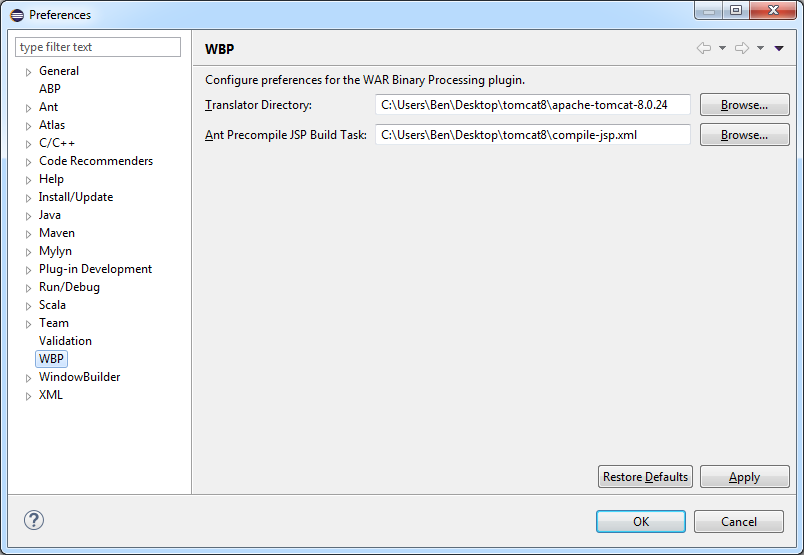
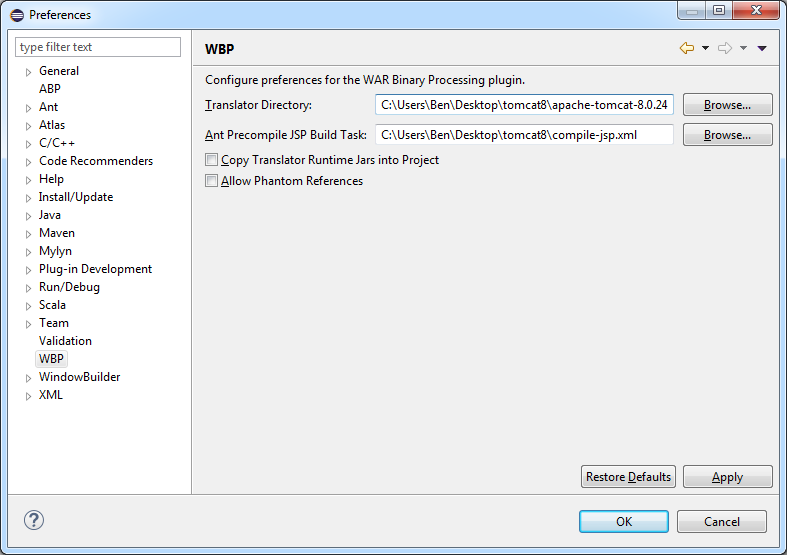
updating tutorial with preference options and added copyright

diff --git a/tutorials.html b/tutorials.html
@@ -94,6 +94,7 @@
         <p>Before processing a WAR binary, you should remember to change your translator preferences by navigating in Eclipse to <code>Eclipse</code>-><code>Preferences...</code>-><code>WBP</code>. Select the location of the translator directory and the ANT build task. The build task file for each of the provided Tomcat translators is included as the <code>compile-jsp.xml</code> file.</p>
         <img src="./images/preferences.png" alt="WBP Preferences"/>
         <p>Older versions of Tomcat can be found in the archives for major versions <a href="https://archive.apache.org/dist/tomcat/tomcat-6/">6</a>, <a href="https://archive.apache.org/dist/tomcat/tomcat-7/">7</a>, and <a href="https://archive.apache.org/dist/tomcat/tomcat-8/">8</a>.  IBM's Websphere has not been tested but a pre-compilation build task should be straightforward enough (see <a href="http://stackoverflow.com/a/1163816/475329">ref1</a>, <a href="https://www-01.ibm.com/support/knowledgecenter/SSEQTP_8.5.5/com.ibm.websphere.nd.doc/ae/tovr_ant.html">ref2</a>, <a href="http://www-01.ibm.com/support/knowledgecenter/SSCKBL_8.0.0/com.ibm.websphere.javadoc.doc/web/apidocs/com/ibm/websphere/ant/tasks/JspC.html">ref3</a>).</p>
+        <p>Optionally, in the preferences window you may specify whether or not to copy the translator's runtime JARs into project's workspace (recommended if you plan to analyze the project on a machine other than the machine that created the project) or simply create external references to the libraries.  There is also an option to allow phantom references in Soot when creating Jimple (not recommended unless you are having difficulty generating Jimple).</p>
 
         <h3><a name="WARProcessing" class="anchor" href="#WARProcessing"><span class="octicon octicon-link"></span></a>Processing a WAR</h3>
         <p>To process a WAR file simply use the <code>WAR Binary Project</code> import wizard. In Eclipse navigate to <code>File</code>-><code>Import</code>-><code>WBP</code>-><code>WAR Binary Project</code>. Note that information, warnings, and errors will be reported to the Eclipse Error Log (navigate to <code>Window</code>-><code>Show View</code>-><code>Error Log</code>.</p>
@@ -106,7 +107,7 @@
         <p>To index the project, navigate to the <code>Atlas</code> menu and select <code>Manage Project Settings</code>.  Ensure that the WAR file binary project is listed under the <code>Map</code> column and other projects that should be excluded from the analysis are not listed.  Click <code>OK</code> when the project index settings are correct, then navigate to the <code>Atlas</code> menu and select <code>Re-Map Workspace</code>.  When the indexing process is complete you can query against indexed project like normal.  For additional information on using Atlas see <a href="http://www.ensoftcorp.com/atlas/">http://www.ensoftcorp.com/atlas/</a>.</p>
 
         <footer>
-          Tactile theme by <a href="https://twitter.com/jasonlong">Jason Long</a>.
+          Copyright &copy; Ben Holland 2015. Tactile theme by <a href="https://twitter.com/jasonlong">Jason Long</a>.
         </footer>
 
       </div>

diff --git a/install.html b/install.html
@@ -65,7 +65,7 @@
         <p>If you want to install from source for bleeding edge changes, follow the instructions at the <a href="https://github.com/benjholla/AtlasWBP">source repository</a>.</p>
         
         <footer>
-          Tactile theme by <a href="https://twitter.com/jasonlong">Jason Long</a>.
+          Copyright &copy; Ben Holland 2015. Tactile theme by <a href="https://twitter.com/jasonlong">Jason Long</a>.
         </footer>
 
       </div>

diff --git a/index.html b/index.html
@@ -79,7 +79,7 @@
         <br />
         
         <footer>
-          Tactile theme by <a href="https://twitter.com/jasonlong">Jason Long</a>.
+          Copyright &copy; Ben Holland 2015. Tactile theme by <a href="https://twitter.com/jasonlong">Jason Long</a>.
         </footer>
 
       </div>
